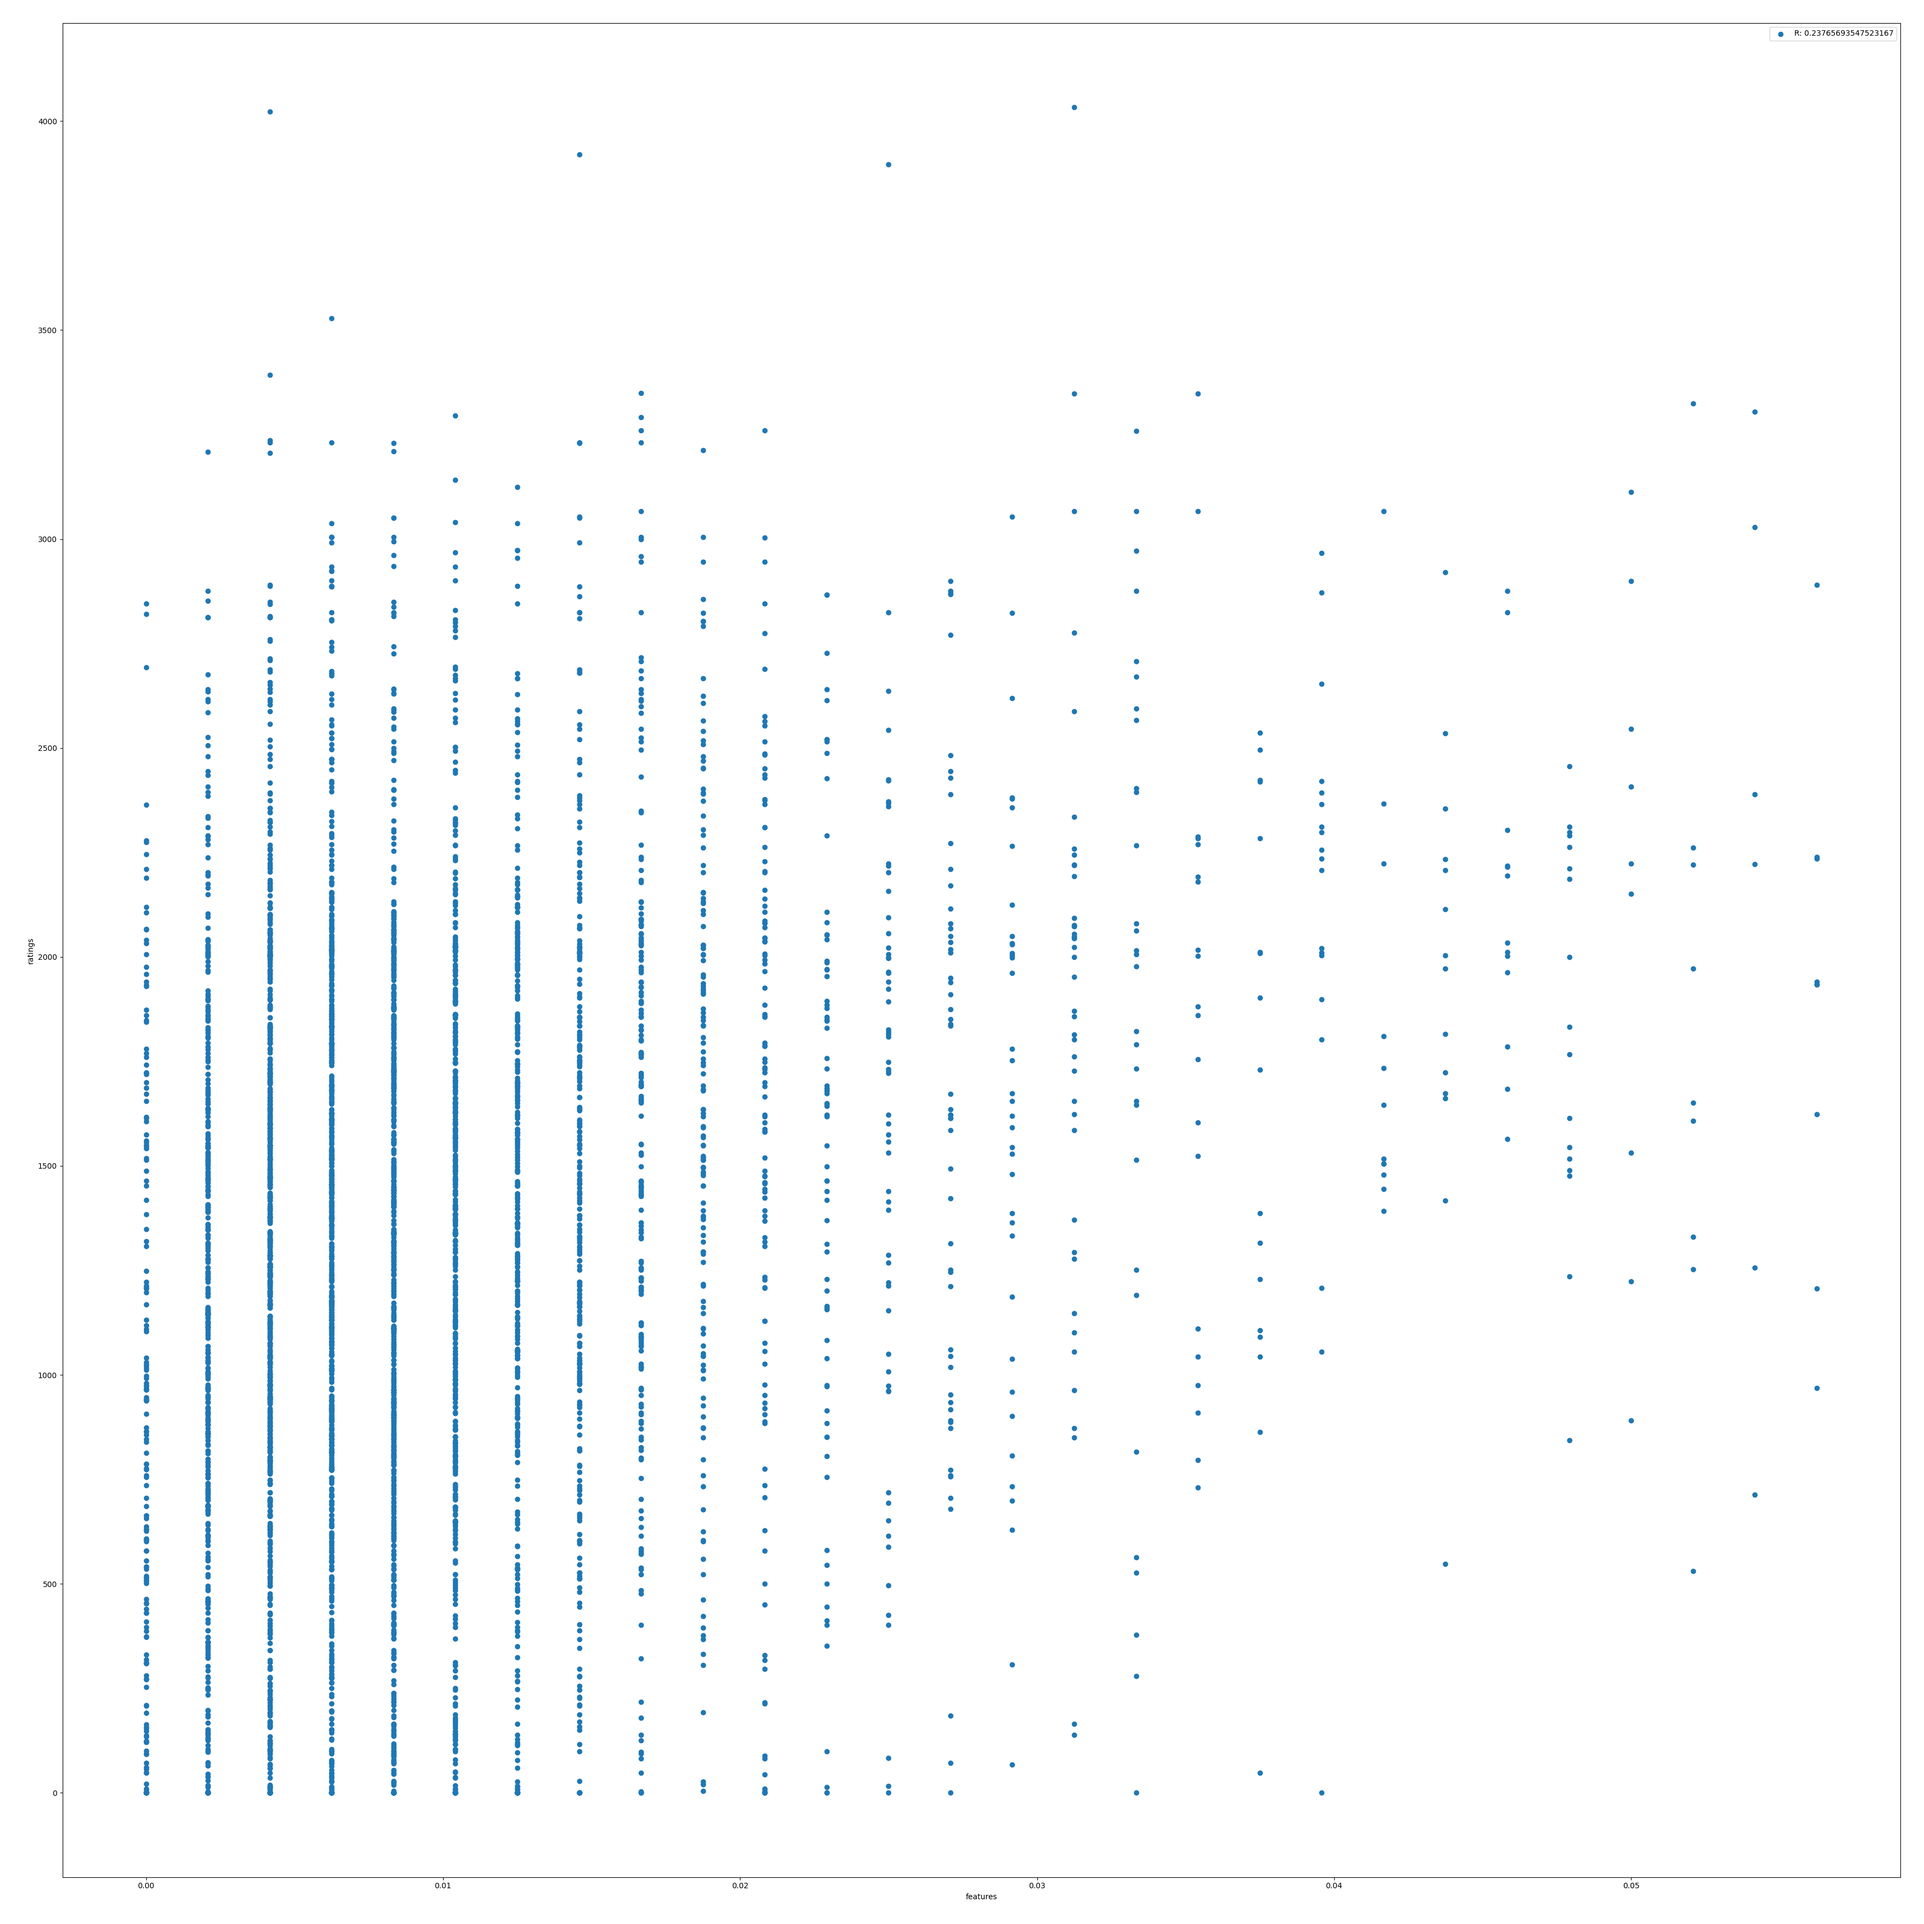
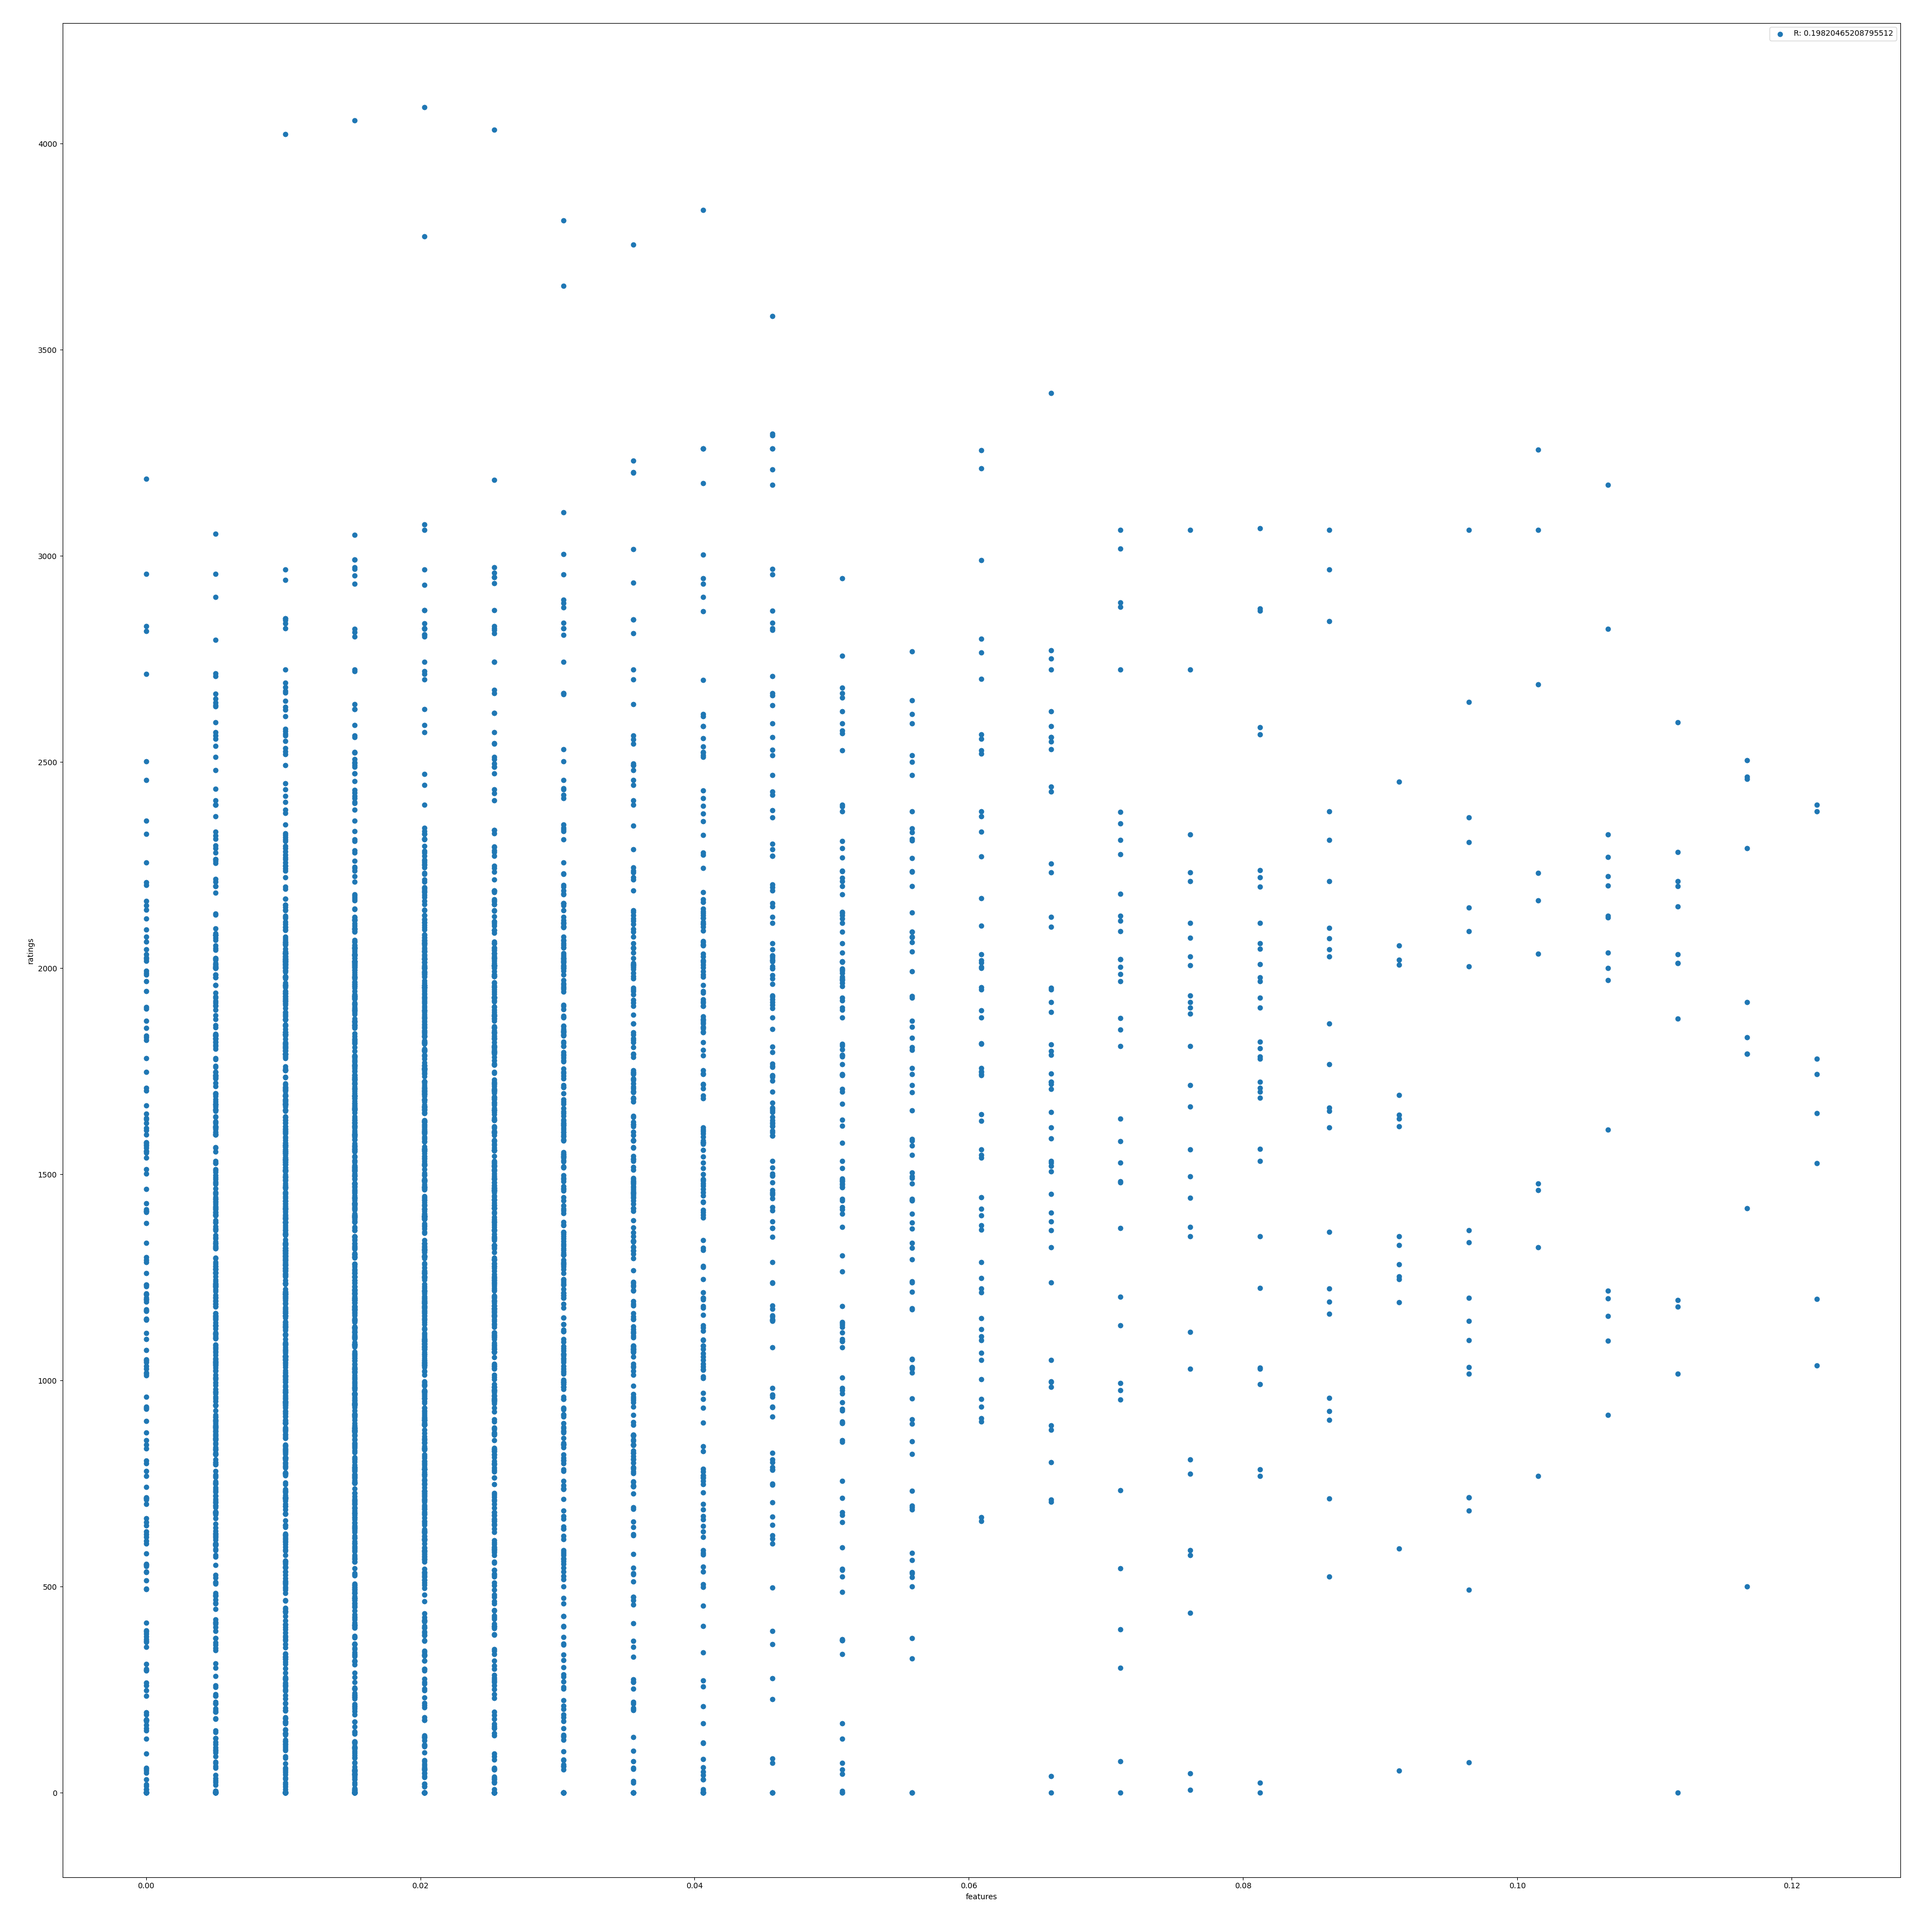
import の最適化 試しに線形回帰を

diff --git a/src/experimental/predict.py b/src/experimental/predict.py
@@ -1,0 +1,51 @@
+import matplotlib.pyplot as plt
+from sklearn.linear_model import LinearRegression
+
+import pandas as pd
+from sklearn.metrics import r2_score, mean_absolute_error
+from sklearn.model_selection import train_test_split
+from sklearn.preprocessing import StandardScaler
+from tqdm import tqdm
+
+from src.lib.data_handling import exclude_outliers
+from src.lib.submissions import with_source_codes, load_all_available_submissions
+from src.single_characteristics.analyze_characteristics import fan
+
+all_submissions = load_all_available_submissions()
+dataset = with_source_codes(all_submissions)
+
+tqdm.write("preparing train data...")
+x = pd.DataFrame()
+mask = [True for _ in range(len(dataset))]
+for (func, func_name) in fan:
+    features = func(tqdm(dataset, desc=func_name))
+    mask = list(map(lambda t: t[0] and t[1], zip(mask, exclude_outliers(features, 2))))
+    x[func_name] = features
+x = x[mask]
+
+y = pd.Series(list(map(lambda submission: submission.rating, all_submissions)))
+y = y[mask]
+
+x_train, x_test, y_train, y_test = train_test_split(x, y, test_size=0.2, random_state=0)
+
+sc = StandardScaler()
+sc.fit(x_train)
+x_train = sc.transform(x_train)
+x_test = sc.transform(x_test)
+
+lr = LinearRegression()
+lr.fit(x_train, y_train)
+
+pred_lr = lr.predict(x_test)
+
+r2_lr = r2_score(y_test, pred_lr)
+
+mae_lr = mean_absolute_error(y_test, pred_lr)
+
+print("R2 : %.3f" % r2_lr)
+print("MAE : %.3f" % mae_lr)
+
+plt.xlabel("pred_lr")
+plt.ylabel("y_test")
+plt.scatter(pred_lr, y_test)
+plt.savefig("figs/predict.png")

diff --git a/src/lib/submissions.py b/src/lib/submissions.py
@@ -3,7 +3,7 @@ import pickle
 import time
 from typing import List, Tuple
 
-import tqdm
+from tqdm import tqdm
 
 from src.lib.extract_html import get_source_code
 
@@ -73,7 +73,7 @@ def with_source_codes(submissions: List[Submission]) -> List[Tuple[Submission, s
         else:
             return submission, source_code
 
-    return list(filter(lambda t: t[1] != "", map(f, tqdm.tqdm(submissions))))
+    return list(filter(lambda t: t[1] != "", map(f, tqdm(submissions))))
 
 
 def filtered_submissions(submissions: List[Submission]) -> List[Submission]:
@@ -87,7 +87,7 @@ def extract_available_submissions(submissions: List[Submission]) -> List[Submiss
     def f(submission: Submission) -> bool:
         return os.path.isfile("source_codes/{}.cpp".format(submission.submission_id))
 
-    return list(filter(f, tqdm.tqdm(submissions)))
+    return list(filter(f, tqdm(submissions)))
 
 
 def load_all_available_submissions() -> List[Submission]:

diff --git a/src/single_characteristics/analyze_characteristics.py b/src/single_characteristics/analyze_characteristics.py
@@ -1,9 +1,7 @@
-from typing import Callable, List, Tuple
-
 import numpy as np
 import pandas as pd
 import seaborn as sns
-import tqdm
+from tqdm import tqdm
 
 from src.lib.data_handling import standardize, normalize, exclude_outliers, extract_specified_elements
 from src.lib.submissions import with_source_codes, load_all_available_submissions
@@ -77,11 +75,14 @@ def save_pair_plot(dataset: List[Tuple[Submission, str]],
 
     df = pd.DataFrame({"ratings": list(map(lambda t: t[0].rating, dataset))})
     mask = [True for _ in range(len(dataset))]
-    for (func, func_name) in tqdm.tqdm(funcs_and_names):
+    for (func, func_name) in tqdm(funcs_and_names):
         features = func(dataset)
         mask = list(map(lambda t: t[0] and t[1], zip(mask, exclude_outliers(features, 2))))
         df[func_name] = features
     df = df[mask]
+
+    print(df.corr())
+
     sns.pairplot(df)
     plt.savefig("figs/pair_plot.png")
     plt.clf()

diff --git a/src/data_preparation/get_user_histories.py b/src/data_preparation/get_user_histories.py
@@ -1,5 +1,5 @@
 import pandas as pd
-import tqdm
+from tqdm import tqdm
 import time
 
 from src.lib.user import get_user_history, save_all_user_histories, load_all_user_histories
@@ -10,7 +10,7 @@ def get_all_user_histories():
     df = pd.read_csv(file_name)
     user_id_list = df["user_id"].unique()
     user_histories = load_all_user_histories()
-    for user_id in tqdm.tqdm(user_id_list):
+    for user_id in tqdm(user_id_list):
         if user_id in user_histories:
             continue
         while True:
@@ -18,7 +18,7 @@ def get_all_user_histories():
                 time.sleep(0.5)
                 user_histories[user_id] = get_user_history(user_id)
             except Exception as e:
-                print(e)
+                tqdm.write(e)
             else:
                 break
     save_all_user_histories(user_histories)

diff --git a/src/lib/user.py b/src/lib/user.py
@@ -3,7 +3,7 @@ from datetime import datetime
 from typing import Dict, List, Tuple
 
 import requests
-import tqdm
+from tqdm import tqdm
 
 
 # [(user_id, epoch_second)] -> [rating]
@@ -11,7 +11,7 @@ def get_rating(queries: List[Tuple[str, int]]) -> List[int]:
     ratings = []
     history_dict = load_all_user_histories()
     print("processing queries in \"get_rating\"")
-    for (user_id, epoch_second) in tqdm.tqdm(queries):
+    for (user_id, epoch_second) in tqdm(queries):
         ratings.append(get_rating_query(user_id, epoch_second, history_dict))
     return ratings
 

diff --git a/src/data_preparation/extract_csv.py b/src/data_preparation/extract_csv.py
@@ -1,5 +1,5 @@
 import pandas as pd
-import tqdm
+from tqdm import tqdm
 
 
 def filter_with_contest_id(contest_id: str) -> bool:
@@ -17,7 +17,7 @@ def extract_csv():
     file_name = "csv/submissions.csv"
     reader = pd.read_csv(file_name, chunksize=1000000)
     df = pd.DataFrame([])
-    for r in tqdm.tqdm(reader):
+    for r in tqdm(reader):
         dfi = r.query("1609588800<=epoch_second<1640962800").query("language.str.startswith('C++')", engine="python")
         df = pd.concat([df, dfi.query("contest_id.apply(@filter_with_contest_id)", engine="python")])
 

diff --git a/src/data_preparation/create_submissions.py b/src/data_preparation/create_submissions.py
@@ -2,7 +2,7 @@ from typing import List
 
 import numpy as np
 import pandas as pd
-import tqdm
+from tqdm import tqdm
 from pandas import DataFrame
 
 from src.lib.problems import get_difficulty, is_during_contest
@@ -38,7 +38,7 @@ def convert_csv_to_submissions(df: DataFrame) -> List[Submission]:
 
     submissions = []
     print("creating submission list")
-    for i in tqdm.tqdm(range(len(submission_id_list))):
+    for i in tqdm(range(len(submission_id_list))):
         submissions.append(
             Submission(
                 submission_id_list[i],

diff --git a/src/data_preparation/get_source_codes.py b/src/data_preparation/get_source_codes.py
@@ -21,7 +21,7 @@ def get_all_source_codes():
                 with open("source_codes/{}.cpp".format(submission.submission_id), "wb") as f:
                     f.write(source_code.encode())
             except Exception as e:
-                print(e)
+                tqdm.write(e)
             else:
                 break
 
